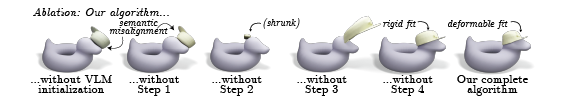
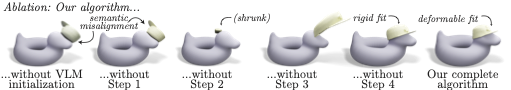
Update MeshOn website layout, figures, and paper link

diff --git a/index.html b/index.html
@@ -288,30 +288,12 @@
         </div>
       </div>
 
-      <p class="section-divider" aria-hidden="true">* * *</p>
+      <!-- <p class="section-divider" aria-hidden="true">* * *</p>
 
       <div class="page-block">
         <h2 class="title is-3 has-text-centered">Ablation</h2>
-        <!-- SECTION FIGURE: static/images/meshon/fig7_ablation.pdf -->
-        <!-- Paper source: Figure 7, page 8. -->
-        <!-- Preserve the entire left-to-right ablation lineup, including "Our complete algorithm". -->
-        <!-- Keep the small labels (e.g., "without VLM initialization", "without Step 1", etc.) readable. -->
-        <div class="meshon-figure has-image meshon-figure-pdf">
-          <a
-            class="meshon-pdf-link"
-            href="./static/images/meshon/fig7_ablation.pdf"
-            target="_blank"
-            rel="noopener"
-            aria-label="Open the ablation figure PDF">
-            <span class="meshon-pdf-shell">
-              <iframe
-                class="meshon-pdf-figure"
-                src="./static/images/meshon/fig7_ablation.pdf#toolbar=0&navpanes=0&scrollbar=0&view=FitH&zoom=page-width"
-                title="Ablation of the MeshOn pipeline showing the effect of removing initialization and optimization steps"
-                loading="lazy">
-              </iframe>
-            </span>
-          </a>
+        <div class="meshon-figure has-image">
+          <img src="./static/images/meshon/fig7_ablation.png" alt="Ablation of the MeshOn pipeline showing the effect of removing initialization and optimization steps">
         </div>
         <div class="content has-text-justified narrative-copy">
           <p>
@@ -321,7 +303,7 @@
             To obtain a tight, non-intersecting fit between the base and the accessory, our algorithm relies on a VLM-driven initialization and four successive optimizations.
           </p>
         </div>
-      </div>
+      </div> -->
 
       <p class="section-divider" aria-hidden="true">* * *</p>
 

diff --git a/static/css/index.css b/static/css/index.css
@@ -187,14 +187,6 @@ a:hover {
   background: #ffffff;
 }
 
-.meshon-figure-pdf {
-  padding: 0;
-  border: 0;
-  box-shadow: none;
-  background: transparent;
-  overflow: hidden;
-}
-
 .meshon-figure-hero {
   min-height: 360px;
 }
@@ -208,37 +200,6 @@ a:hover {
   width: 100%;
   height: auto;
   border-radius: 14px;
-}
-
-.meshon-pdf-link {
-  display: block;
-  width: 100%;
-  line-height: 0;
-}
-
-.meshon-pdf-shell {
-  position: relative;
-  display: block;
-  width: 100%;
-  aspect-ratio: 5.64 / 1;
-  min-height: 120px;
-  overflow: hidden;
-  background: #ffffff;
-}
-
-.meshon-pdf-figure {
-  position: absolute;
-  top: -42px;
-  left: -4px;
-  width: calc(100% + 8px);
-  height: calc(100% + 46px);
-  display: block;
-  border: 0 !important;
-  outline: 0 !important;
-  box-shadow: none !important;
-  border-radius: 0;
-  background: transparent;
-  pointer-events: none;
 }
 
 .meshon-figure-grid {
@@ -373,23 +334,8 @@ a:hover {
     padding: 0.6rem;
   }
 
-  .meshon-figure-pdf,
-  .meshon-figure-hero.meshon-figure-pdf,
-  .meshon-figure-wide.meshon-figure-pdf {
-    padding: 0;
-  }
-
   .meshon-figure-grid {
     grid-template-columns: 1fr;
-  }
-
-  .meshon-pdf-shell {
-    min-height: 72px;
-  }
-
-  .meshon-pdf-figure {
-    top: -34px;
-    height: calc(100% + 38px);
   }
 
   .placeholder-path {
